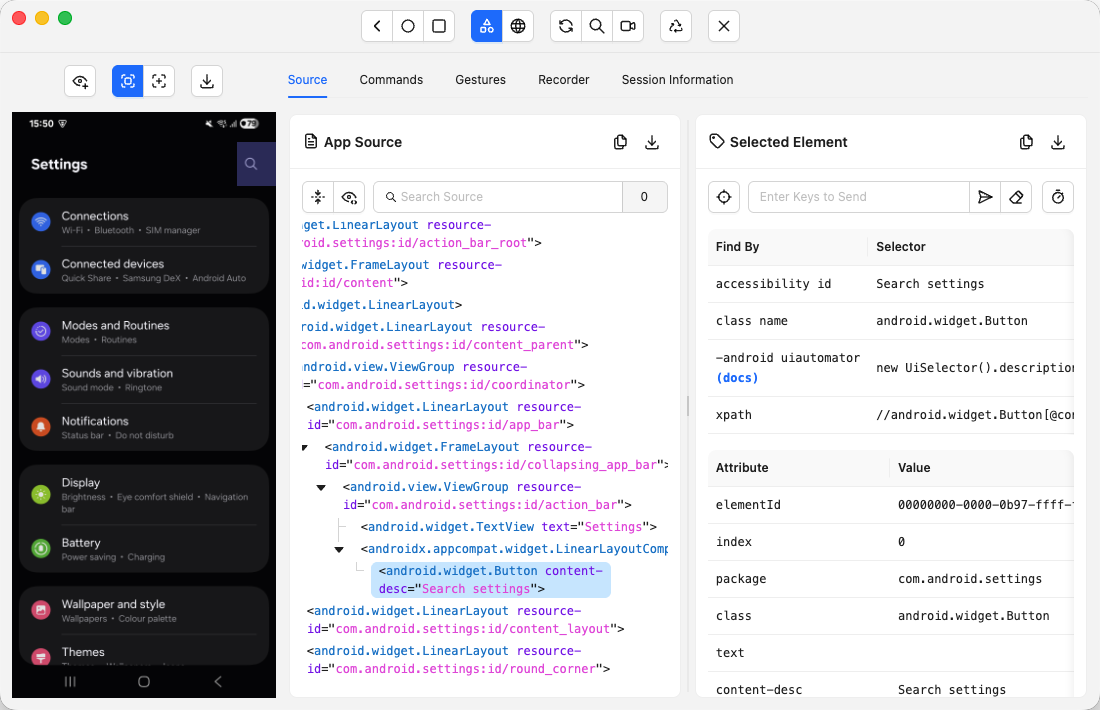
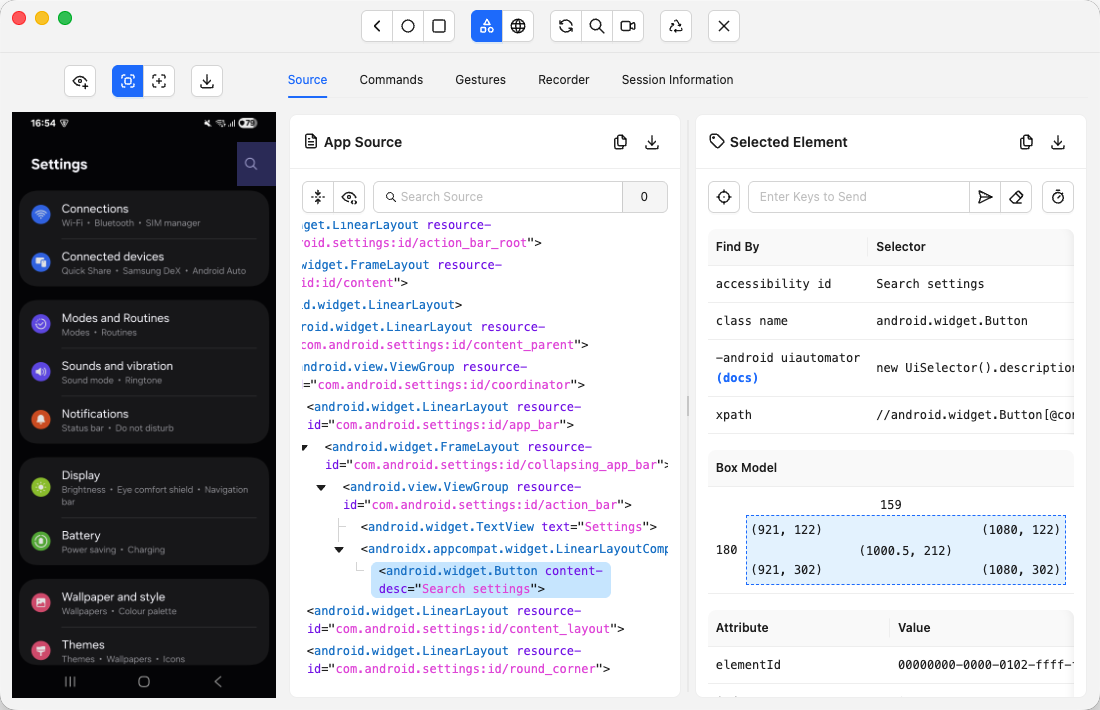
feat: add box model for Selected Element (#2636)
* feat: add box model for Selected Element

* docs: update docs for box model

* address copilot comment

diff --git a/app/common/renderer/components/SessionInspector/SourceTab/SelectedElement/SelectedElementBoxModel.jsx b/app/common/renderer/components/SessionInspector/SourceTab/SelectedElement/SelectedElementBoxModel.jsx
@@ -1,0 +1,68 @@
+import _ from 'lodash';
+import {useTranslation} from 'react-i18next';
+
+import {parseCoordinates} from '../../../../utils/other.js';
+import inspectorStyles from '../../SessionInspector.module.css';
+import styles from './SelectedElement.module.css';
+import SelectedElementTable from './SelectedElementTable.jsx';
+
+/**
+ * Cell rendering the element's box model.
+ */
+const SelectedElementBoxModelContents = ({dataPoints}) => {
+  const {x1, y1, x2, y2, xMiddle, yMiddle} = dataPoints;
+  const monoText = (text) => <span className={inspectorStyles.monoFont}>{text}</span>;
+  const monoCoords = (x, y) => monoText(`(${x}, ${y})`);
+
+  return (
+    <div className={styles.selectedElemBoxModelWrapper}>
+      <div className={styles.selectedElemWidth}>{monoText(x2 - x1)}</div>
+      <div className={styles.selectedElemHeightPlusBoxWrapper}>
+        <div>{monoText(y2 - y1)}</div>
+        <div className={styles.selectedElemBoxWrapper}>
+          <span className={styles.selectedElemTopLeft}>{monoCoords(x1, y1)}</span>
+          <span className={styles.selectedElemTopRight}>{monoCoords(x2, y1)}</span>
+          <div className={styles.selectedElemMidpoint}>{monoCoords(xMiddle, yMiddle)}</div>
+          <span className={styles.selectedElemBottomLeft}>{monoCoords(x1, y2)}</span>
+          <span className={styles.selectedElemBottomRight}>{monoCoords(x2, y2)}</span>
+        </div>
+      </div>
+    </div>
+  );
+};
+
+/**
+ * Single-cell table containing the element's box model.
+ * Table is used for consistency with the other selected element items.
+ */
+const SelectedElementBoxModel = ({selectedElement}) => {
+  const {t} = useTranslation();
+
+  const extractedCoords = parseCoordinates(selectedElement);
+  if (_.isEmpty(extractedCoords)) {
+    return null;
+  }
+  const {x1, y1, x2, y2} = extractedCoords;
+  const xMiddle = x1 + (x2 - x1) / 2;
+  const yMiddle = y1 + (y2 - y1) / 2;
+
+  const elementBoxModelData = [
+    {
+      key: 'data',
+      boxmodel: {x1, y1, x2, y2, xMiddle, yMiddle},
+    },
+  ];
+
+  const elementBoxModelCol = [
+    {
+      title: t('Box Model'),
+      dataIndex: 'boxmodel',
+      key: 'boxmodel',
+      render: (dataPoints) => <SelectedElementBoxModelContents dataPoints={dataPoints} />,
+    },
+  ];
+
+  return <SelectedElementTable columns={elementBoxModelCol} dataSource={elementBoxModelData} />;
+};
+
+export default SelectedElementBoxModel;

diff --git a/app/common/renderer/components/SessionInspector/SourceTab/SelectedElement/SelectedElement.jsx b/app/common/renderer/components/SessionInspector/SourceTab/SelectedElement/SelectedElement.jsx
@@ -5,6 +5,7 @@ import inspectorStyles from '../../SessionInspector.module.css';
 import InteractionsNotAvailableMessage from './InteractionsNotAvailableMessage.jsx';
 import SelectedElementActions from './SelectedElementActions.jsx';
 import SelectedElementAttributesTable from './SelectedElementAttributesTable.jsx';
+import SelectedElementBoxModel from './SelectedElementBoxModel.jsx';
 import SelectedElementCard from './SelectedElementCard.jsx';
 import SelectedElementLocatorsTable from './SelectedElementLocatorsTable.jsx';
 import SnapshotMaxDepthReachedMessage from './SnapshotMaxDepthReachedMessage.jsx';
@@ -77,6 +78,7 @@ const SelectedElement = (props) => {
           currentContext={currentContext}
           elementLocatorsData={elementLocatorsData}
         />
+        <SelectedElementBoxModel selectedElement={selectedElement} />
         <SelectedElementAttributesTable elementAttributesData={elementAttributesData} />
       </Space>
     </SelectedElementCard>

diff --git a/app/common/renderer/components/SessionInspector/SourceTab/SelectedElement/SelectedElement.module.css b/app/common/renderer/components/SessionInspector/SourceTab/SelectedElement/SelectedElement.module.css
@@ -43,3 +43,60 @@
 .copyableCell {
   cursor: pointer;
 }
+
+.selectedElemBoxModelWrapper {
+  height: 90px;
+  display: flex;
+  flex-direction: column;
+  justify-content: center;
+}
+
+.selectedElemWidth {
+  text-align: center;
+}
+
+.selectedElemHeightPlusBoxWrapper {
+  display: flex;
+  align-items: center;
+  height: 100%;
+  gap: 8px;
+}
+
+.selectedElemBoxWrapper {
+  position: relative;
+  flex: 1;
+  height: 70px;
+  border: 1px dashed var(--ant-blue-6);
+  background-color: var(--ant-blue-1);
+}
+
+.selectedElemTopLeft {
+  position: absolute;
+  left: 4px;
+  top: 4px;
+}
+
+.selectedElemTopRight {
+  position: absolute;
+  right: 4px;
+  top: 4px;
+}
+
+.selectedElemMidpoint {
+  display: grid;
+  height: 70px;
+  align-items: center;
+  place-items: center;
+}
+
+.selectedElemBottomLeft {
+  position: absolute;
+  left: 4px;
+  bottom: 4px;
+}
+
+.selectedElemBottomRight {
+  position: absolute;
+  right: 4px;
+  bottom: 4px;
+}

diff --git a/docs/session-inspector/source.md b/docs/session-inspector/source.md
@@ -88,8 +88,8 @@ An element can be selected in one of the following ways:
 
 Unselecting the element will hide the Selected Element panel.
 
-The panel can be divided into 4 parts: header buttons, element action buttons, suggested locators,
-and element attributes.
+The panel can be divided into 5 parts: header buttons, element action buttons, suggested locators,
+box model, and element attributes.
 
 ### Element Header Buttons
 
@@ -116,6 +116,13 @@ listed strategies + locators, and adds a new table column with the elapsed time 
 was returned.
 
 ![Locators Table With Timings](./assets/images/source/timing-values.png)
+
+### Box Model
+
+![Box Model](./assets/images/source/box-model.png)
+
+The box model provides an easy reference to the element's position and size values. It shows the
+element's width and height, and the exact coordinates for each of its corners, plus its midpoint.
 
 ### Element Attributes
 
